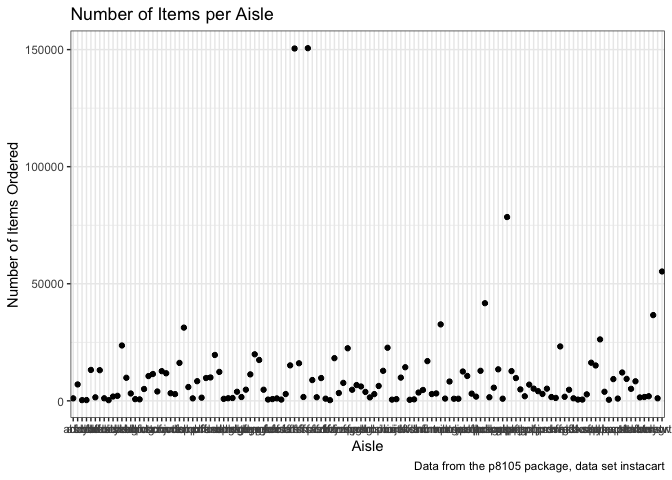
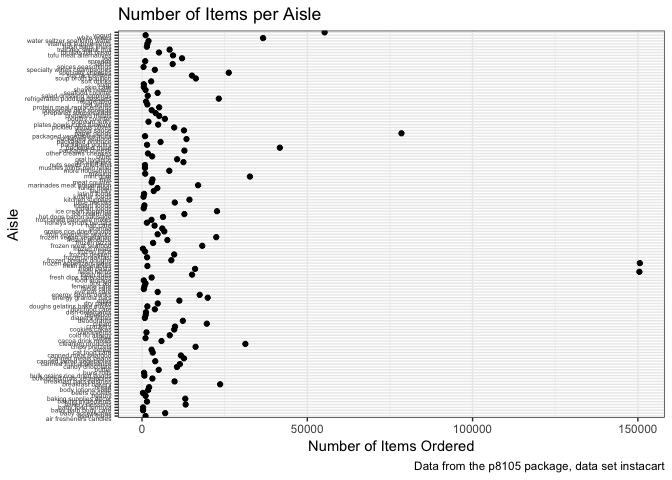
more plot adjustment

diff --git a/p8105_hw3_jv2629.md b/p8105_hw3_jv2629.md
@@ -243,14 +243,14 @@ aisle_plot = instacart %>%
   summarise(n = n()) %>% 
   arrange(n)
 
-ggplot(aisle_plot, aes(x = aisle, y = n)) + 
-  geom_point()+
+ggplot(aisle_plot, aes(x = n, y = aisle)) + 
+  geom_point() +
   labs(
     title = "Number of Items per Aisle",
-    x = "Aisle",
-    y = "Number of Items Ordered",
+    x = "Number of Items Ordered",
+    y = "Aisle",
     caption = "Data from the p8105 package, data set instacart"
-  ) + scale_x_discrete(labels = abbreviate)
+  ) + theme(axis.text.y = element_text(size = 5, vjust = 1))
 ```
 
 ![](p8105_hw3_jv2629_files/figure-markdown_github/unnamed-chunk-7-1.png)
